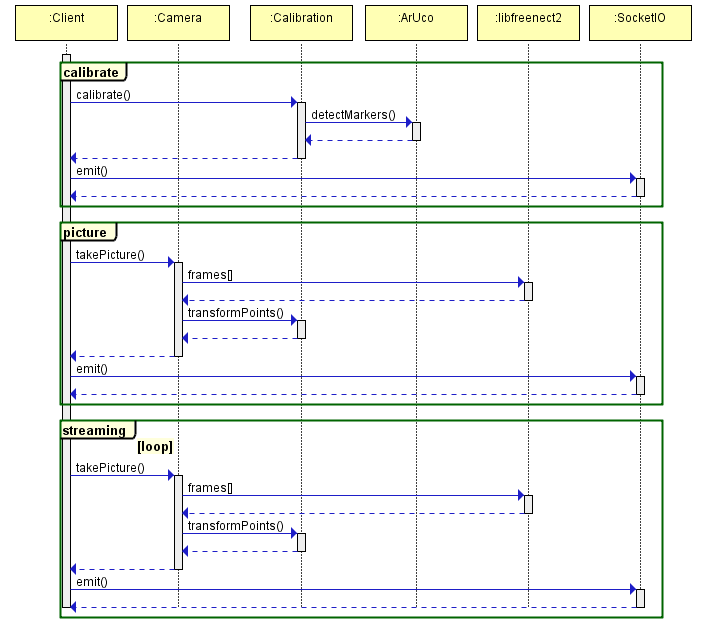
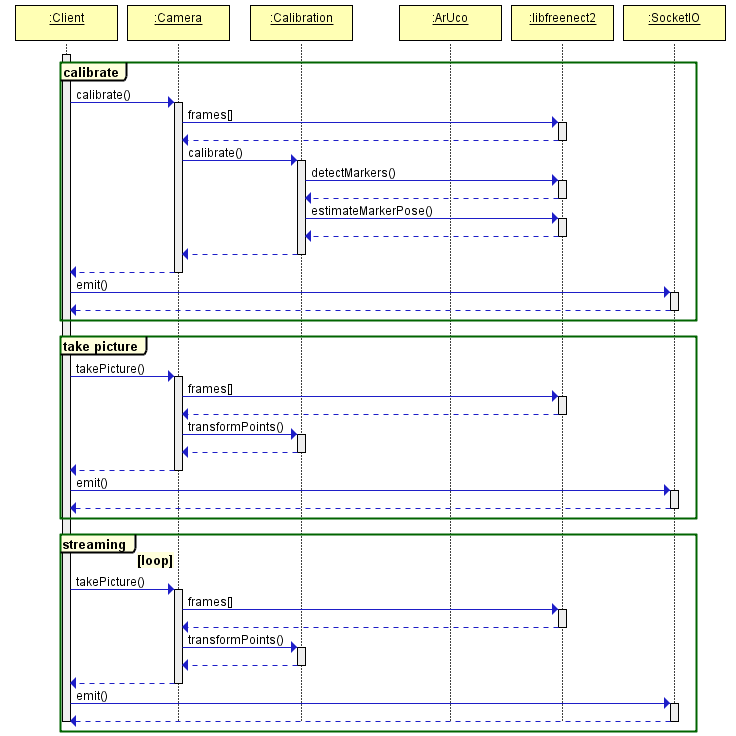
Added uml diagrams to the report

Changed region(s): [[0.0, 0.0, 0.9872, 1.0]]

diff --git a/report/report.tex b/report/report.tex
@@ -1,5 +1,6 @@
 \documentclass{article}
 \usepackage{graphicx}
+\usepackage{float}
 \graphicspath{ {images/} }
 \usepackage{hyperref}
 \setcounter{tocdepth}{4}
@@ -78,13 +79,13 @@ For live imaging there are also two main use cases. For virtual reality gaming i
 \section{Introduction}
 
 % TODO : maybe put these side by side
-\begin{figure}
+\begin{figure}[h]
   \centering
   \includegraphics[scale=0.3]{placeholder}
   \caption{placeholder}
   \label{fig:placeholder1}
 \end{figure}
-\begin{figure}
+\begin{figure}[h]
   \centering
   \includegraphics[scale=0.3]{placeholder}
   \caption{placeholder}
@@ -186,7 +187,7 @@ We decided to use SocketIO to communicate between the clients and the server as 
 We chose to design our system as a distributed system for a few main reasons. Using a distributed system is good for applications like these because when adding more devices to the system, you are also adding more computers and computing power. This means that increased number of cameras has a negligible increase on the load of the server which makes the system more powerful. Another advantage of this design is that the cameras do not need to be physically connected to a single computer and can be situated in different corners of the space. This is a vital feature for some of the use cases of our system, such as imaging a point of interest which would require the cameras to be quite far from each other. There are also drawbacks of the distributed approach however. Having a computer dedicated to each camera means that the hardware requirements are greater and having the system run over the network means that the framerate and latency will be worse than having it all run on one server.
 \begin{figure}[h]
   \centering
-  \includegraphics[scale=0.6]{distributed}
+  \includegraphics[scale=0.35]{distributed}
   \caption{Diagram of the distributed system design of the project}
 \end{figure}
 \newpage
@@ -194,7 +195,7 @@ We chose to design our system as a distributed system for a few main reasons. Us
 The UML sequence diagram of the client's structure is shown below:
 \begin{figure}[h]
   \centering
-  \includegraphics[scale=0.7]{clientUML}
+  \includegraphics[scale=0.6]{clientUML}
   \caption{UML sequence diagram of the client}
 \end{figure}
 \subsubsection{C++}
@@ -206,7 +207,7 @@ We chose to do the calibration on the server and send the point clouds directly 
 The UML sequence diagram of the server's structure is shown below:
 \begin{figure}[h]
   \centering
-  \includegraphics[scale=0.7]{clientUML}
+  \includegraphics[scale=0.6]{serverUML}
   \caption{UML sequence diagram of the server}
 \end{figure}
 \subsubsection{Gulp} %webapp
